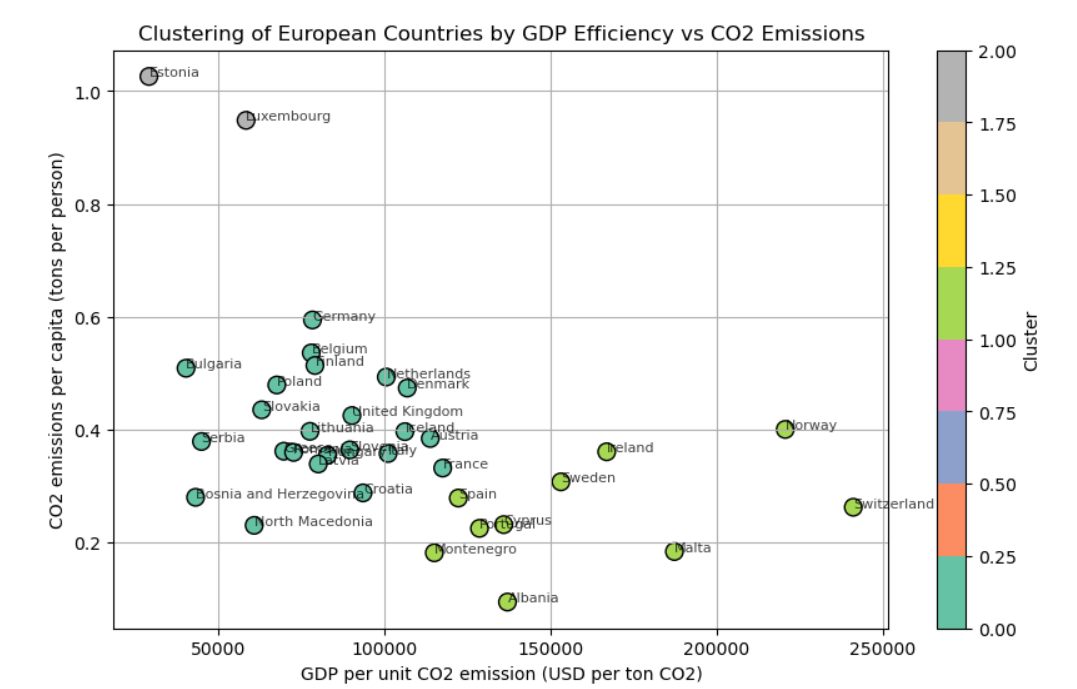
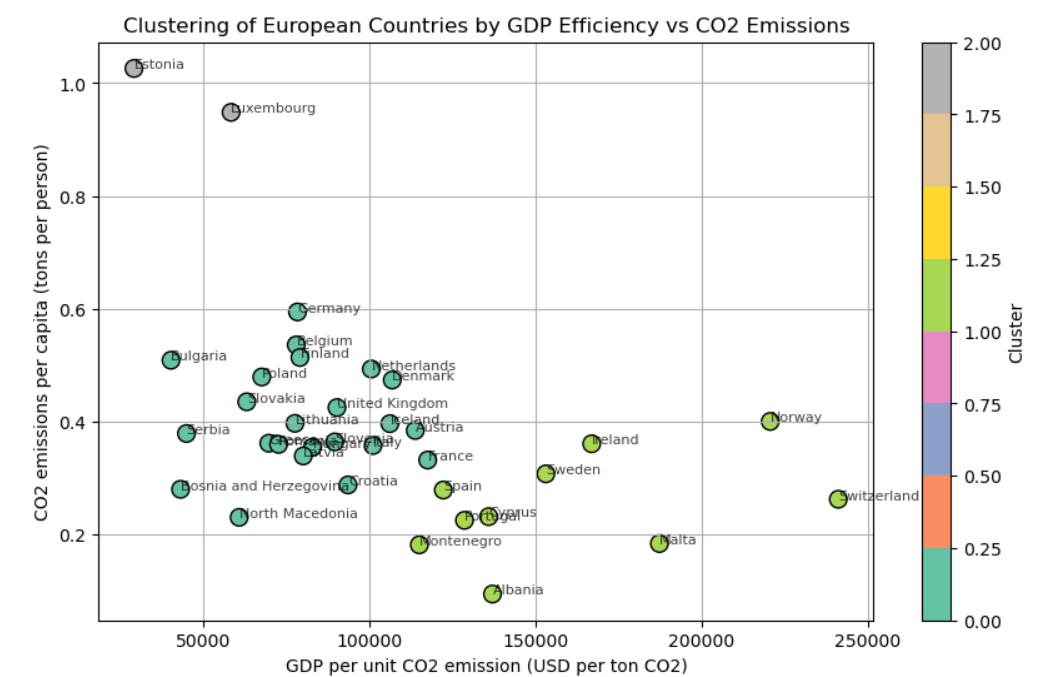
KONCNO.md

diff --git a/KONCNO.md b/KONCNO.md
@@ -9,13 +9,11 @@
 
 ## 1.2 Introduction
 
-Global climate change is one of the most pressing issues of our time. CO₂ emissions from fossil fuels and industrial processes are the leading contributors to global warming. This project explores the evolution of CO₂ emissions across European countries, examines the effectiveness of major international climate agreements, and identifies key drivers of emissions.
-
-We also provide interactive tools to visualize and understand emissions by country, sector, and economic indicators, with the goal of revealing actionable insights.
+This project focuses on analyzing CO2 and other harmful gas emissions. The main goal is to study how different factors impact these emissions and identify potential contributors. By conducting this analysis, we aim to gain a better understanding of the relationships between human activities and gas emissions.
 
 ## 2. Data
 
-Our datasets come from reputable sources including the European Union’s official databases such as Eurostat and EDGAR, as well as other public repositories like Kaggle. During the data preparation phase, we filtered out datasets that were not from official or reliable sources to ensure data quality and consistency. Additionally, we supplemented the data by adding countries that were initially missing, allowing for a more comprehensive and accurate analysis across Europe.
+Our datasets come from reputable sources including the European Union's official databases such as EDGAR and other sources like Kaggle. During the data preparation phase, we encountered some issues with certain European countries, which required additional filtering to bring them into a usable format. The datasets include annual CO2 emissions (in kilotons) for countries worldwide from 1970-2023. They do not only provide total emissions per country but also break them down by sector, showing how much CO2 each sector contributes. Additionally, we used various datasets to obtain information on European countries population, GDP, and climate change, which we later used to compare against CO2 emissions.
 
 ## 3. Data analysis 
 
@@ -23,98 +21,131 @@ Our datasets come from reputable sources including the European Union’s offici
 
 ![image.png](./img/avg_co2.png)
 
-This section focuses on the top 10 European countries with the highest average CO₂ emissions. As expected the top CO2 emission countries are the bigger ones with highly developed industries.The leading country is Russia, followed by Germany, UK, Ukraine, France and Italy.
+This section focuses on the top 10 European countries with the highest average CO2 emissions. As expected the top CO2 emission countries are the bigger ones with highly developed industries. As seen in the plot above the leading country is Russia, followed by Germany, UK, Ukraine, France and Italy.
 
 ### 3.2 Top 10 most polluted countries (Timeline 1970-2023)
 
+To gain a clearer view and understanding of CO2 emission trends during the analysis period (1970-2023), we created a timeline visualization of the top 10 European countries with the highest average CO2 emissions over the years.
+
 ![image.png](./img/timeline.png)
 
-Here we can see that Russia and Ukraine had a massive dropdown in CO2 emission somwhere in the year 1990. That was because of the collapse of the Soviet Union. In the next picture we can see how did that affect the other countries in that Union.
+The plot clearly shows a sharp decline in CO2 emissions for Russia and Ukraine around 1990, prompting further investigation into this unusual drop. Our research revealed that this was due to the collapse of the Soviet Union, which led to the shutdown of many factories and other factors that significantly reduced CO2 emissions.
 
-### 3.3 Normalizaed CO2 Emissions(Relative to 1990) - European Soviet Countries 
+### 3.3 CO2 emissions per capita  
+
+We realized that analyzing CO2 emissions in isolation wasn't sufficient for meaningful insights. Therefore, we performed additional comparisons involving CO2 emissions. In the next map visualization, we present the results of comparing CO2 emissions with each country's population.
+
+![image.png](./img/per_capita.png)
+
+At first glance, the results shown on the map appear promising. However, a closer analysis reveals that some countries with relatively small populations, such as Luxembourg, rank disproportionately high-an outcome that doesn't align with expectations. This suggests that this approach may not be the most reliable for drawing accurate conclusions.
+
+### 3.4 CO2 emissions per Million USD GDP
+
+The next analysis involved comparing CO2 emissions with each country's GDP. Specifically, we calculated the amount of CO2 emitted per $1,000,000 of GDP. This approach gived the following results.
+
+![image.png](./img/per_gdp_worst.png)
+
+![image.png](./img/per_gdp_best.png)
+
+The plots reveal a clear pattern: Western European countries perform best due to developed, service-based economies and strong environmental regulations, leading to lower CO₂ emissions per unit of GDP. In contrast, Eastern European countries like Ukraine, Russia, and Moldova still rely heavily on fossil fuels, resulting in higher emissions. This reflects the economic and infrastructural divide in sustainability between Western and Eastern Europe.
+
+###  3.5 Emission per km²
+
+The final analysis we conducted measured CO2 emissions per km² for each European country, giving the following results:
+
+![image.png](./img/by_area.png)
+
+Among all the methods we used to compare CO2 emissions with other factors, this one clearly performed the worst, as it ranked the smallest countries highest due to their small surface area.
+
+Overall, analyzing average CO2 emissions alone proved to be the most effective approach for this problem. Comparing by GDP came in a close second, followed by population, with area-based analysis ranking last.
+
+### 3.6 Leading sectors in CO2 emissions
+
+![image-2.png](./img/leading_sectors.png)
+
+By analyzing and visualizing the sectors contributing most to CO2 emissions in the top 5 highest-emitting countries, we identified the following key sectors as the primary contributors:
+
+- Public electricity and heat production
+- Residential and other sectors
+- Manufacturing Industries and Construction
+- Road transportation no resuspension
+- Other Energy Industrie
+- Cement production
+- Production of chemicals
+- Fugitive emissions from solid fuels
+- Production of metals
+- Lime production
+- Fugitive emissions from oil and gas
+- Fugitive emissions from gaseous fuels
+- Other direct soil emissions
+- Inland navigation
+- Rail transportation
+- And others...
+
+For which, we calculated the correlation with each European country, giving promising results as shown in the plot below.
+
+![image-2.png](./img/corr_lead_sect.png)
+
+### 3.7 Clustering European Countries by their CO2 emissions
+
+To cluster the countries in our datasets, we tried several approaches, all giving promising results. The most effective method was clustering based on each country's GDP efficiency combined with their CO2 emissions.
+We performed the clustering using the KNN algorithm and determined the optimal value of "K" using the Elbow Method (a technique that involves plotting the sum of squared errors for different K values and identifying the point where the rate of improvement sharply decreases, forming an "elbow" in the graph), yielding the following results:
+
+![image-2.png](./img/clustering.png)
+
+From the scatter plot we can see the formed clusters, such as:
+
+- Cluster 0: High GDP efficiency and low emissions (Switzerland, Norway, Sweden and others.)
+- Cluster 1: Low GDP efficiency and high emissions (Estonia and Luxembourg)
+- Cluster 2: Moderate GDP efficiency and moderate emissions (Germany, Italy, UK).
+
+### 3.8 CO2 emission forecast   
+
+From our dataset, we generated CO2 emission predictions for each country up to 2030. Using yearly data, we extracted features and trained several machine learning models to forecast future emissions.
+
+![image.png](./img/forecast_greece.png)
+![image.png](./img/forecast_germany.png)
+![image.png](./img/forecast_total.png)
+
+In the end we picked the SARIMA model because it effectively captured the trend and provided good predictions. We can see the example for Germany and Greece how the forecast follows the trend of the emissions.
+
+The final image shows results for all European countries, countries present in the dataset, indicating a decline in emissions in both the actual data and the forecasts.
+
+### 3.9 Key Periods and Events in European CO2 Emissions (1970-2023)
+
+During this project, we came across several interesting findings in our visualizations that prompted further investigation into key factors potentially contributing to CO2 emissions.
+
+#### Impact of the Breakup of Yugoslavia
+
+![image.png](./img/yugoslavia_before.png)
+![image.png](./img/yugoslavia_after.png)
+
+The plots show that before the breakup (1975-1990), emissions were relatively stable, reflecting Yugoslavia's unified industrial policies. After 1990, there is a sharp decline in emissions caused by economic collapse, war damage, and halted industrial activity-particularly in Bosnia, Serbia, and Croatia.
+
+
+#### The Collapse of the Soviet Union
 
 ![image.png](./img/soviet.png)
 
-All the countries that were in the Soviet Union had a rapid decreasing in CO2 emissions and the country that had the biggest percentage was Armenia. That seemes logical cause Armenia in that period of time had :
+Similarly, all countries that were part of the Soviet Union experienced a rapid decrease in CO2 emissions, with Armenia showing the largest percentage drop. This decline was likely caused by the collapse of heavy industries, economic disruption, and reduced energy production following the dissolution of the Soviet Union.
 
-Nagorno-Karabakh conflict (1988–1994): Military tensions with Azerbaijan disrupted borders and trade.
+#### The Nuclear Phase-Out in Germany
 
-Blockade by neighboring countries: Severely limited access to energy supplies (especially gas and oil).
+![image.png](./img/nuclear_germany.png)
 
-Shut down of the Metsamor Nuclear Power Plant after the 1988 earthquake (until 1995).
+The decision to phase out nuclear energy in Germany in 2011 appears to have caused a short-term increase in CO2 emissions. As nuclear power plants-which generate electricity without direct carbon emissions-were gradually shut down, Germany had to compensate for the lost energy by relying more on fossil fuels.
 
-Severe energy crisis in the early 1990s (frequent blackouts and limited industrial activity).
+#### The Kyoto Protocol and the Paris Agreement
 
-### 3.4 Emissions per Capita and GDP per Capita (2022)
+The Kyoto Protocol (1997) and the Paris Agreement (2015) are key international milestones that shaped Europe's CO2 emissions policies. Both agreements set targets to reduce greenhouse gas emissions, driving many European countries to implement stricter environmental regulations and transition to cleaner energy sources.
 
-![image.png](./img/mapakapita.png)
+## 4. Overview
 
-![image.png](./img/gdp_capita.png)
+### 4.1 Overview of the project
 
-The maps of European CO₂ and GDP per capita show clear contrasts in how wealth relates to emissions. Russia has high CO₂ emissions despite moderate GDP, pointing to energy-intensive industries. Sweden, with high GDP and low emissions, shows effective environmental policies and clean energy use. Germany ranks high in both, reflecting its strong industrial base, while Switzerland combines high wealth with low emissions, suggesting efficient and clean development. These patterns reveal that emissions depend not just on wealth, but also on energy sources, policies, and technology.
+As a final overview of the project, our analysis showed that CO₂ emissions increased in nearly every European country up to a certain point in time. This trend began to reverse when more developed countries started adopting renewable energy sources, leading to a gradual decline in emissions across much of Europe-marking a positive shift toward a more sustainable and environmentally conscious future.
 
-###  3.5 Emission per Million USD GDP by European Country
-![image.png](./img/USDGDP.png)
+### 4.2 Streamlit application
 
-The map clearly shows which countries emit the most CO₂ per $1,000,000 of GDP. High emitters include Ukraine, Russia, Estonia, and Bulgaria, while low emitters include Switzerland, Norway, and Sweden. Generally, wealthier countries have lower carbon intensity, likely due to better technology and cleaner energy. Russia stands out for its high emissions, driven by heavy fossil fuel use and energy-intensive industries.
+If you're interested in exploring more of our work-including additional visualizations and some interactive ones-check out our [Streamlit application](https://pr2515-co2-emissions-in-europe.streamlit.app/).
 
-### 3.6 Correlation between Population density and Co2 emissions per capita (2020)
-
-![image-2.png](./img/corr_pop_co2.png)
-
-The scatter plot shows no clear link between population density and CO₂ emissions per capita in Europe (2020). Luxembourg and Russia are outliers with high emissions despite differing densities. Malta, though the most densely populated, has low emissions. This suggests that energy use, economy, and transport matter more than population density alone.
-
-### 3.7 Correlation between cumulative Co2 and temperature annomaly 
-![image-2.png](./img/co2_vs_temp.png)
-
-![image.png](./img/corr_pop_co2.png)
-
-The trendline going upward indicates that as cumulative CO₂ emissions increase, so does the average temperature anomaly in Europe. The dots scattered around the line represent data points for each year — their proximity to the line shows how closely the data follows the general trend.A correlation of 0.95 means there's a very strong positive linear relationship — as CO₂ accumulates, temperature rises almost proportionally.
-
-### 3.8 Percentage of Co2 emissions by sector per cluster  
-
-![image.png](./img/sector.png)
-
-We identified 4 clusters of European countries based on sectoral CO₂ emissions:
-
-Cluster 1 (e.g. Estonia, Ireland): Small economies heavily reliant on public electricity and heat production (the top emitting sector at 40.2%).
-
-Cluster 2 (e.g. Albania, Malta): Transitional economies with emissions split between electricity, transport, and industry—electricity is again the largest contributor at 33.1%.
-
-Cluster 3 (e.g. Austria, Sweden): Diversified, mature economies with balanced emissions; electricity production still leads at 32.1%.
-
-Cluster 4 (e.g. Germany, Russia): Large, high-demand economies dominated by public electricity and heat production, which is also the main emitting sector at 39.1%.
-
-Across all clusters, public electricity and heat production is consistently the largest source of CO₂ emissions, confirming the energy sector’s dominant environmental impact.
-
-### 3.9 Co2 Emissions per Capita after the breakup of Yugoslavia 
-
-![image.png](./img/breakup_yugo.png)
-
-Pre-breakup (1985–1990): Emissions were relatively stable, reflecting Yugoslavia’s unified industrial policies.
-
-Post-breakup (1990s): Likely a drop in emissions due to economic collapse, war devastation, and halted industrial activity (especially in Bosnia, Serbia, and Croatia).
-
-2000s Recovery: Gradual increase as economies stabilized, but divergence emerges based on energy policies and EU integration.
-
-2010s–2020: EU members (Slovenia, Croatia): Emissions decline due to stricter environmental regulations and renewable energy adoption. Non-EU countries (Serbia, Bosnia, N. Macedonia, Montenegro): Emissions remain higher, tied to coal dependence and slower green transitions.
-
-### 3.10 Forecasting CO₂ Emissions (2020–2030)
-
-To forecast emissions, we tested several models and chose the best performer for each country. For Greece, SARIMA gave the most reliable results.
-
-To improve accuracy, we created features like:
-
-Policy markers (Kyoto, Paris)
-
-Lagged emissions (1–3 years)
-
-Rolling stats (mean & std over 3 years)
-
-The forecast shows a slow but steady decline in CO₂ emissions, continuing the post-2010 downward trend—likely driven by EU regulations and clean energy adoption.
-
-![image.png](./img/forecast_greece.png)
-
-![image-2.png](./img/forecast_total.png)
-
-The grouped overall CO2 emissions for Europe's countries that we had in the dataset. We can see a decline of CO2 emissions in the near future.
